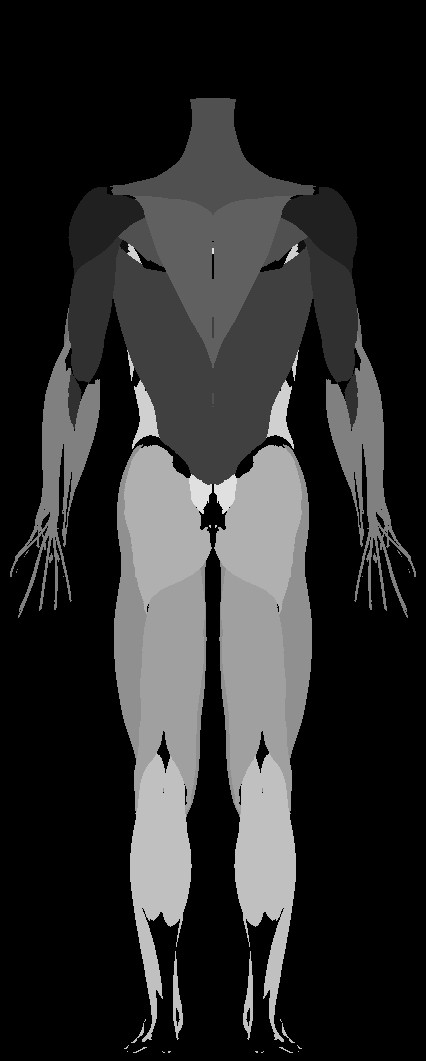
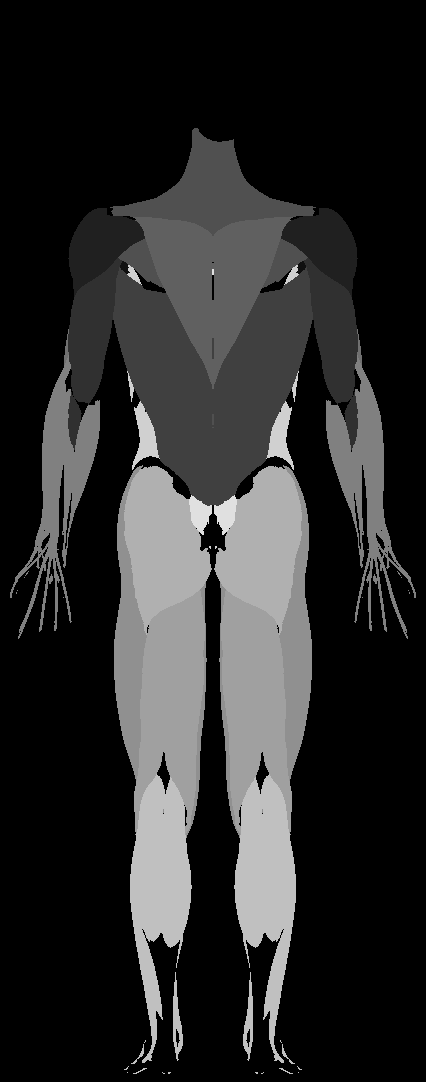
Give the anatomy figure a natural male head
Adds the sculpted short-hair cap from the Z-Anatomy body-surface model so the
head reads as a normal male form. Re-rendered beauty and ID maps.

Claude-Session: https://claude.ai/code/session_018p5ShPLkAdsKbAirBRCepd

diff --git a/styles.css b/styles.css
@@ -382,7 +382,7 @@ select.txt { background-image: linear-gradient(45deg, transparent 50%, var(--mu)
 .body-map { display: grid; grid-template-columns: 1fr 1fr; gap: 8px; }
 .body-map figure { margin: 0; display: flex; flex-direction: column; align-items: center; }
 .body-map figcaption { font-size: 11px; font-weight: 700; letter-spacing: .08em; text-transform: uppercase; color: var(--mu2); margin-top: 4px; }
-.body-cv { width: 100%; max-width: 190px; aspect-ratio: 426 / 1061; height: auto; display: block; cursor: pointer; }
+.body-cv { width: 100%; max-width: 190px; aspect-ratio: 426 / 1082; height: auto; display: block; cursor: pointer; }
 .body-map { background: radial-gradient(60% 45% at 50% 40%, rgba(255, 138, 61, .06), transparent 70%); border-radius: 14px; padding-top: 6px; }
 .body-legend { display: flex; align-items: center; gap: 8px; margin: 12px 4px 0; font-size: 11.5px; color: var(--mu); font-weight: 600; }
 .body-legend i { flex: 1; height: 6px; border-radius: 6px; background: linear-gradient(90deg, #3a3633, #a8471c, var(--accent2)); }

diff --git a/sw.js b/sw.js
@@ -1,5 +1,5 @@
 // Stale-while-revalidate app shell: opens instantly offline, picks up new versions on next launch.
-const CACHE = 'kiln-v7';
+const CACHE = 'kiln-v8';
 const ASSETS = ['./', 'index.html', 'styles.css', 'exercises.js', 'body.js', 'app.js', 'manifest.webmanifest',
   'img/body-front.webp', 'img/body-back.webp', 'img/body-front-id.png', 'img/body-back-id.png',
   'icons/icon-192.png', 'icons/icon-512.png', 'icons/apple-touch-icon.png'];

diff --git a/tools/blender/render.py b/tools/blender/render.py
@@ -44,11 +44,15 @@ if HEAD_Z:
     # sculpted head: skin regions of the face and skull from the body-surface model
     before = set(bpy.context.scene.objects)
     bpy.ops.import_scene.fbx(filepath=args['skin'])
-    NO = ['neck', 'carotid', 'sternocleidomastoid', 'muscular triangle', 'supraclavicular', 'hair', 'eyelash', 'cilia', 'cross section']
+    NO = ['carotid', 'muscular triangle', 'supraclavicular', 'eyelash', 'cilia', 'cross section', 'eyebrow hair', 'hairs of eyebrow', 'pubic', 'axilla']
+    if not args.get('hair'): NO.append('hair')
+    if not args.get('neck'): NO += ['neck', 'sternocleidomastoid']
+    zmin_keep = args.get('skin_zmin', 1.475)
     for o in [o for o in bpy.context.scene.objects if o not in before]:
         if o.type != 'MESH': continue
         n = o.name.lower(); ws = [o.matrix_world @ mathutils.Vector(v) for v in o.bound_box]
-        if n.endswith('.j') or n.endswith('.i') or any(x in n for x in NO) or min(w.z for w in ws) < 1.475:
+        is_neck = any(x in n for x in ['neck', 'sternocleidomastoid'])
+        if n.endswith('.j') or n.endswith('.i') or any(x in n for x in NO) or (min(w.z for w in ws) < zmin_keep and not is_neck):
             o.hide_render = True; continue
         keep.append(o)
         if n.startswith('orbital region'):

diff --git a/tools/blender/README.md b/tools/blender/README.md
@@ -9,7 +9,7 @@ Source of `img/body-*.webp` (sculpted render) and `img/body-*-id.png` (muscle gr
 
 ```
 COMMON='"fbx": ".../MuscularSystem100.fbx", "skel": ".../SkeletalSystem100.fbx", "skin": ".../Regions of human body100.fbx",
-  "views": ["front", "back"], "res": [600, 1200], "head_z": 1.535, "core_dy": 0.015, "core_s": 0.84, "core_sy": 0.78, "eye_back": 2.3'
+  "views": ["front", "back"], "res": [600, 1200], "head_z": 1.535, "core_dy": 0.015, "core_s": 0.84, "core_sy": 0.78, "eye_back": 2.3, "hair": true'
 python -I render.py "{\"mode\": \"id\", \"out\": \"out\", $COMMON}"            # rename to *-id.png
 python -I render.py "{\"mode\": \"beauty\", \"out\": \"out\", \"samples\": 128, \"light\": 0.28, \"clay\": [0.045,0.044,0.043], $COMMON}"
 ```
